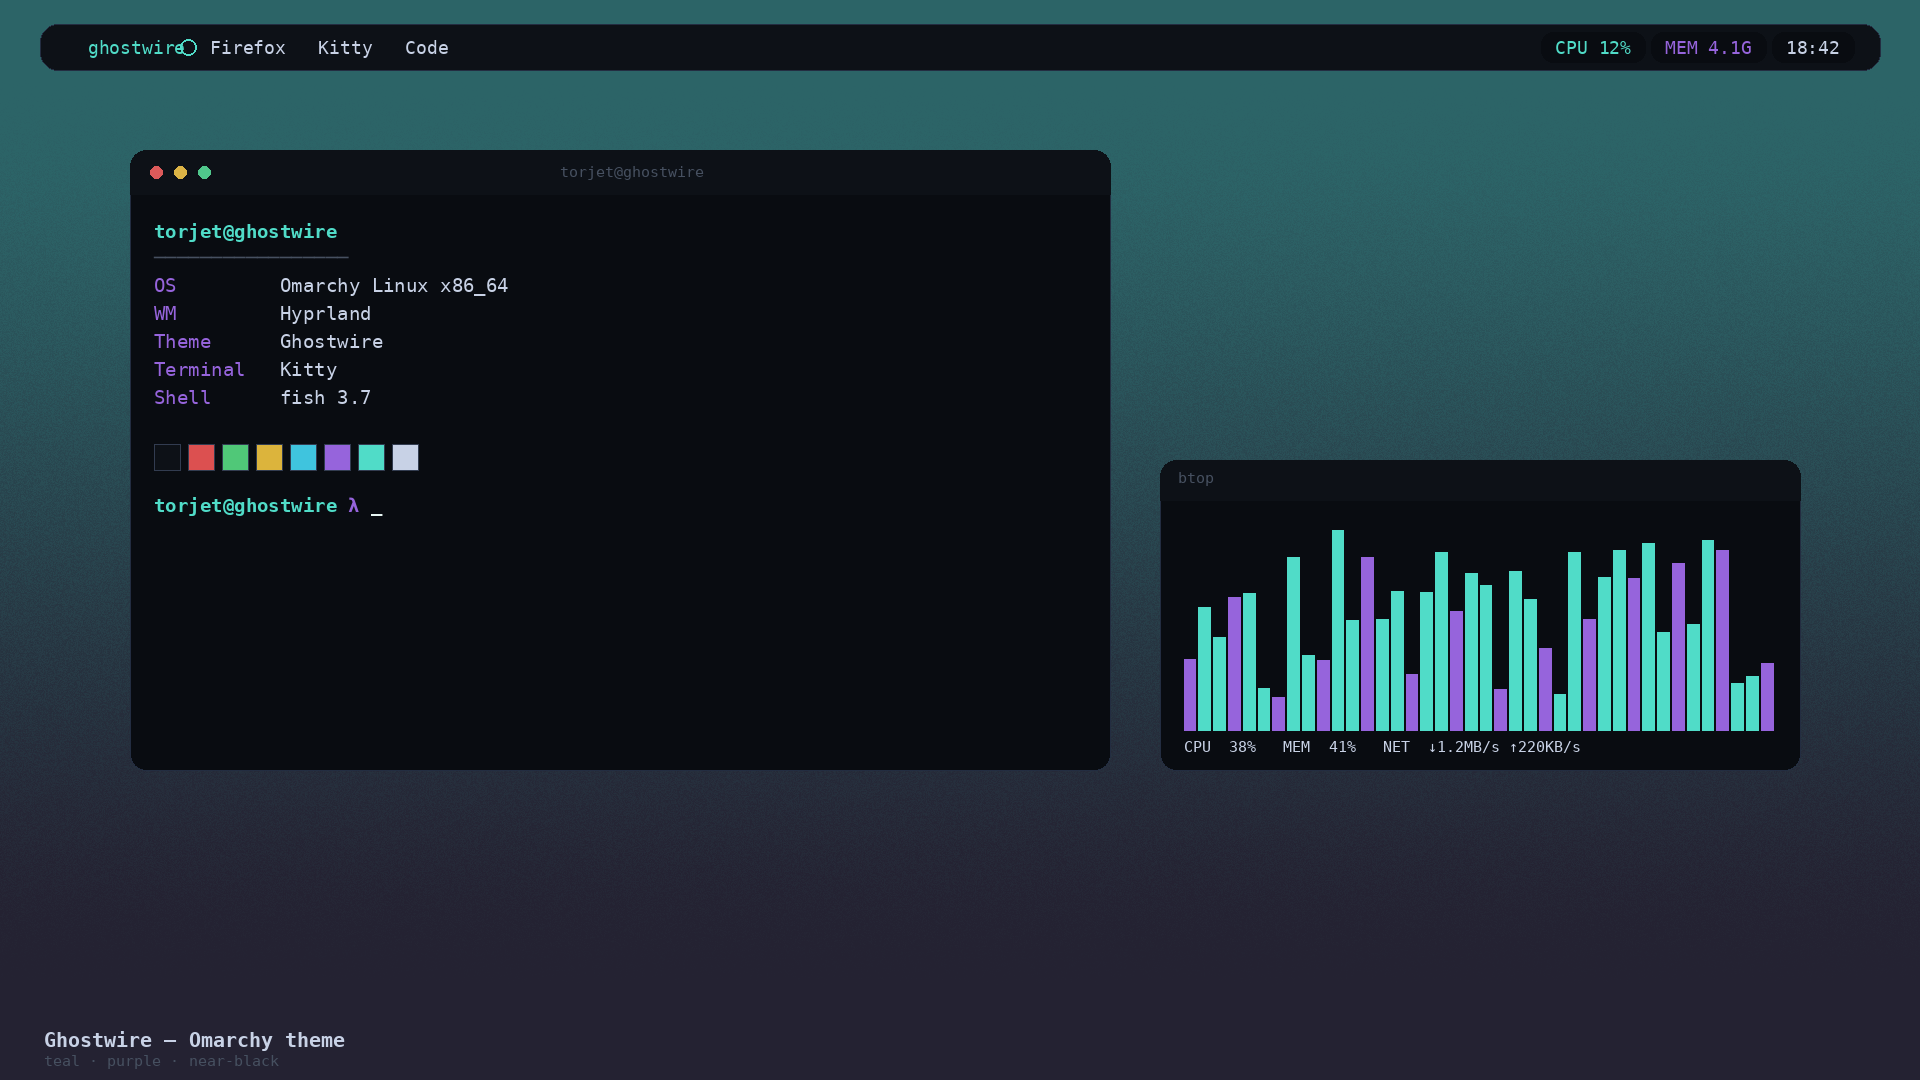
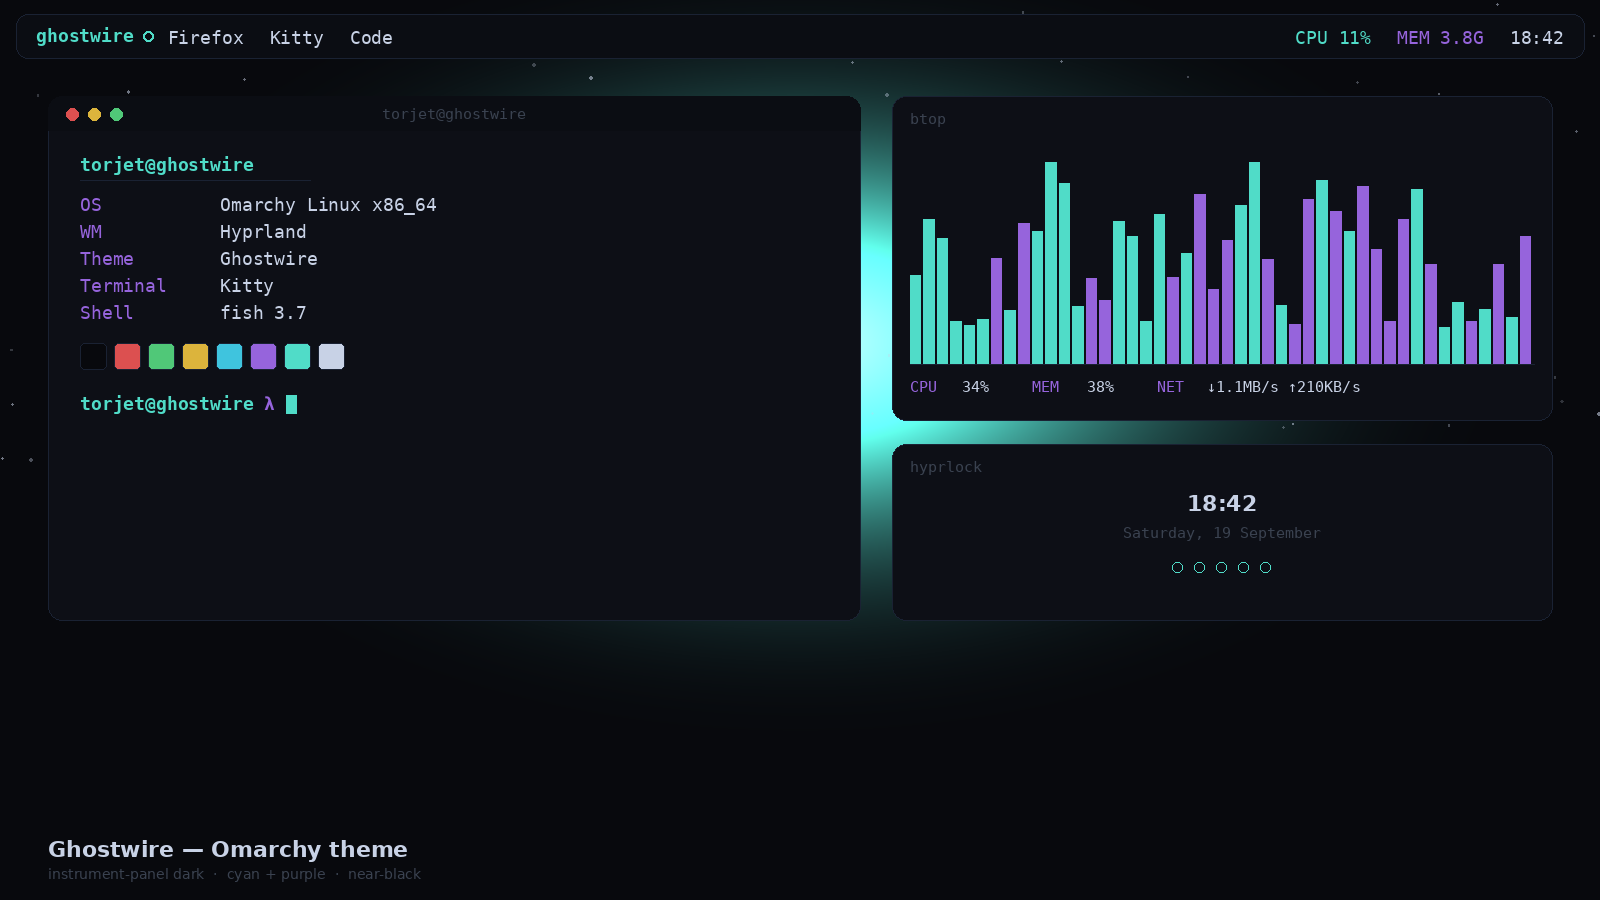
Fix install instructions (omarchy-theme-install <url>) and regenerate preview.png with new palette

diff --git a/README.md b/README.md
@@ -29,7 +29,21 @@ discord (vencord) · fish · fzf · superfile · zed · steam
 
 ## Install on Omarchy
 
-**Option A — local theme (this folder)**
+**Simplest — install via URL:**
+
+```bash
+omarchy-theme-install https://github.com/vispobish01-netizen/omarchy-ghostwire-theme
+```
+
+or from the menu: `Super + Alt + Space` → *Install > Theme* → paste that same URL.
+
+Either way Omarchy clones the repo, regenerates terminal (Kitty/Ghostty/
+Alacritty), Hyprland, Waybar, Hyprlock, Mako, btop, Walker, and SwayOSD
+colors from `colors.toml` automatically, sets `backgrounds/ghostwire.png`
+as your wallpaper, and the native Hyprlock unlock screen picks up
+`unlock.png` (see *Lock screen* below).
+
+**Manual / local copy of this folder:**
 
 ```bash
 mkdir -p ~/.config/omarchy/themes
@@ -37,30 +51,7 @@ cp -r ghostwire-theme ~/.config/omarchy/themes/ghostwire
 omarchy-theme-set ghostwire
 ```
 
-That's it — Omarchy regenerates terminal (Kitty/Ghostty/Alacritty), Hyprland,
-Waybar, Hyprlock, Mako, btop, Walker, and SwayOSD colors from `colors.toml`
-automatically, and sets `backgrounds/ghostwire.png` as your wallpaper. The
-native Hyprlock unlock screen picks up `unlock.png` automatically (see
-*Lock screen* below).
-
-**Option B — pick it from the menu**
-
-`Super + Alt + Space` → *Style > Theme* → select **Ghostwire** (it'll appear
-once the folder above exists).
-
-**Option C — install via URL (once pushed to GitHub)**
-
-Push this folder to a public repo named `omarchy-ghostwire-theme` (the
-`omarchy-[themename]-theme` naming convention is what makes it show up as
-just "ghostwire" after install), then:
-
-`Super + Alt + Space` → *Install > Theme* → paste the repo URL
-
-or from the CLI:
-
-```bash
-omarchy-theme-install https://github.com/<you>/omarchy-ghostwire-theme
-```
+Then `Super + Alt + Space` → *Style > Theme* → select **Ghostwire**.
 
 **Getting it listed publicly:** the official route is pinging `@tahayvr` on
 the Omarchy Discord (`#omarchy`) to get added to the
